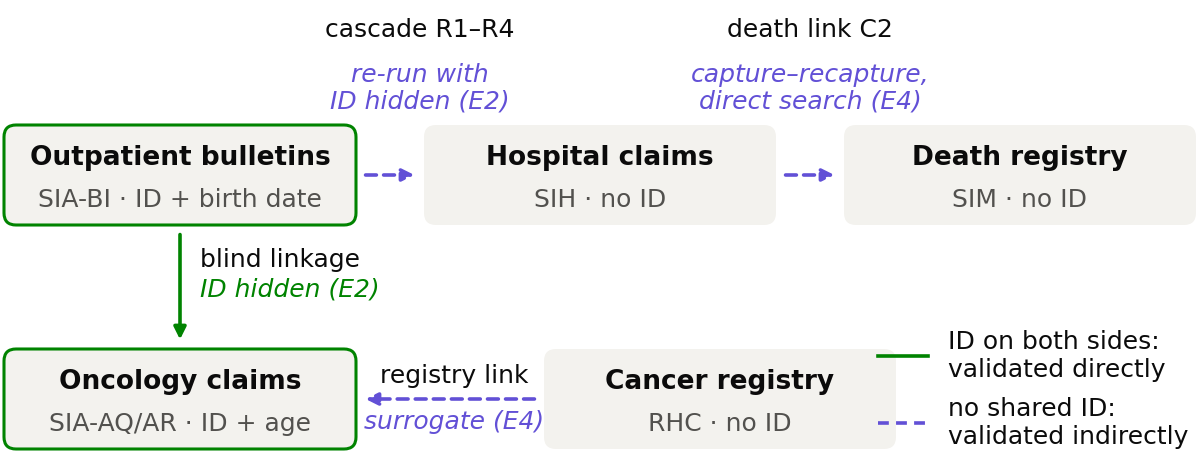
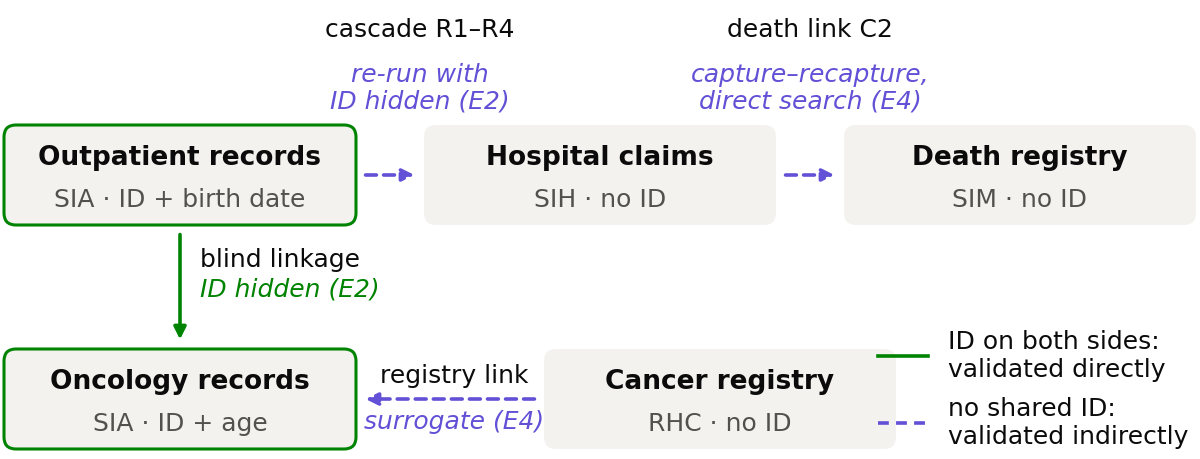
Camera-ready: authors, affiliations and repository URL
- paper: author list and affiliations, Data and Code Availability links to
  this repository
- fig2_sources_links: box labels "Outpatient records" / "Oncology records",
  as in the camera-ready PDF
- README and LICENSE: authors, affiliations and BibTeX entry

Changed region(s): [[0.0308, 0.793, 0.2775, 0.9455], [0.0308, 0.3965, 0.2775, 0.4575], [0.0308, 0.305, 0.2775, 0.366]]

diff --git a/paper/ml4h_final.tex b/paper/ml4h_final.tex
@@ -53,8 +53,13 @@
 
 % Author list: must match OpenReview exactly (names, order).
 \author{%
- \Name{[TODO AUTHOR LIST]} \Email{[TODO]}\\
- \addr [TODO AFFILIATION]
+ \Name{Jo\~ao Luis Reis Freitas\nametag{\textsuperscript{a}}},
+ \Name{Leonardo Dexheimer {da Silva}\nametag{\textsuperscript{a}}},\\
+ \Name{Felipe Matias Berg\nametag{\textsuperscript{b,c}}},
+ \Name{Nelson Wolosker\nametag{\textsuperscript{a,b}}}\\
+ \addr \textsuperscript{a}Faculdade de Medicina, Universidade de S\~ao Paulo, Avenida Doutor Arnaldo 455, 01246-903, S\~ao Paulo, SP, Brazil\\
+ \addr \textsuperscript{b}Hospital Israelita Albert Einstein, Avenida Albert Einstein 627, 05652-900, S\~ao Paulo, SP, Brazil\\
+ \addr \textsuperscript{c}Department of Radiology, Case Western Reserve University, 10900 Euclid Avenue, Cleveland, OH 44106, USA
 }
 
 \begin{document}
@@ -97,7 +102,7 @@ and the National Cancer Institute's hospital cancer registry (RHC)
 the case base and the years returns the yearly record-level files). The analysis
 scripts, the aggregate output tables behind every number and figure, and a map
 from each number to its script and table are available at
-\url{[TODO REPOSITORY URL]}. No record-level data are released.
+\url{https://github.com/jolurf/ml4h2026-linkage-audit}. No record-level data are released.
 
 \paragraph*{Institutional Review Board (IRB)} Brazilian research-ethics norms
 exempt research that uses only public-access information from ethics-committee

diff --git a/analysis/ml4h_figuras_finais.py b/analysis/ml4h_figuras_finais.py
@@ -184,8 +184,8 @@ def fig2_sources_links() -> None:
 
     yt, yb = 1.42, 0.3
     xa, xb, xc, xr = 0.9, 3.0, 5.1, 3.6
-    caixa(xa, yt, "Outpatient bulletins", "SIA-BI · ID + birth date", com_id=True)
-    caixa(xa, yb, "Oncology claims", "SIA-AQ/AR · ID + age", com_id=True)
+    caixa(xa, yt, "Outpatient records", "SIA · ID + birth date", com_id=True)
+    caixa(xa, yb, "Oncology records", "SIA · ID + age", com_id=True)
     caixa(xb, yt, "Hospital claims", "SIH · no ID")
     caixa(xc, yt, "Death registry", "SIM · no ID")
     caixa(xr, yb, "Cancer registry", "RHC · no ID")

diff --git a/README.md b/README.md
@@ -1,8 +1,15 @@
 # Auditing Identity Noise and Linkage Degradation at National Scale
 
-Code and aggregate outputs for the ML4H 2026 paper *Auditing Identity Noise and
-Linkage Degradation at National Scale: From Bias Measurement to Downstream Clinical
-Distortion*.
+Code and aggregate outputs for the ML4H 2026 (Findings Track) paper *Auditing
+Identity Noise and Linkage Degradation at National Scale: From Bias Measurement to
+Downstream Clinical Distortion*.
+
+João Luis Reis Freitas¹, Leonardo Dexheimer da Silva¹, Felipe Matias Berg²³,
+Nelson Wolosker¹²
+
+¹ Faculdade de Medicina, Universidade de São Paulo, São Paulo, Brazil ·
+² Hospital Israelita Albert Einstein, São Paulo, Brazil ·
+³ Department of Radiology, Case Western Reserve University, Cleveland, OH, USA
 
 Machine learning on health records assumes that each patient's history has been
 stitched together correctly. In Brazil's public health system (SUS) only
@@ -151,4 +158,13 @@ included; the paper cites only its aggregate summary
 
 MIT License (see `LICENSE`).
 
-Citation: to appear in ML4H 2026 Findings.
+```bibtex
+@inproceedings{freitas2026auditing,
+  title     = {Auditing Identity Noise and Linkage Degradation at National Scale:
+               From Bias Measurement to Downstream Clinical Distortion},
+  author    = {Freitas, Jo{\~a}o Luis Reis and {da Silva}, Leonardo Dexheimer and
+               Berg, Felipe Matias and Wolosker, Nelson},
+  booktitle = {Machine Learning for Health (ML4H) 2026, Findings Track},
+  year      = {2026}
+}
+```
